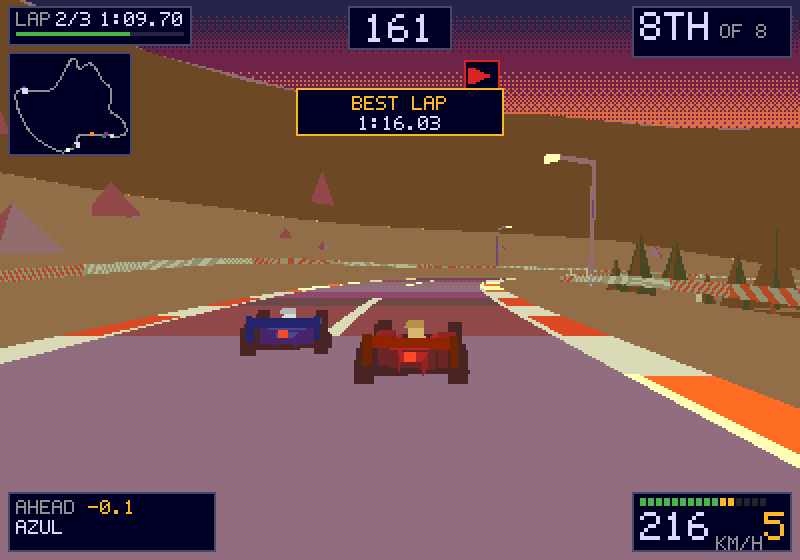
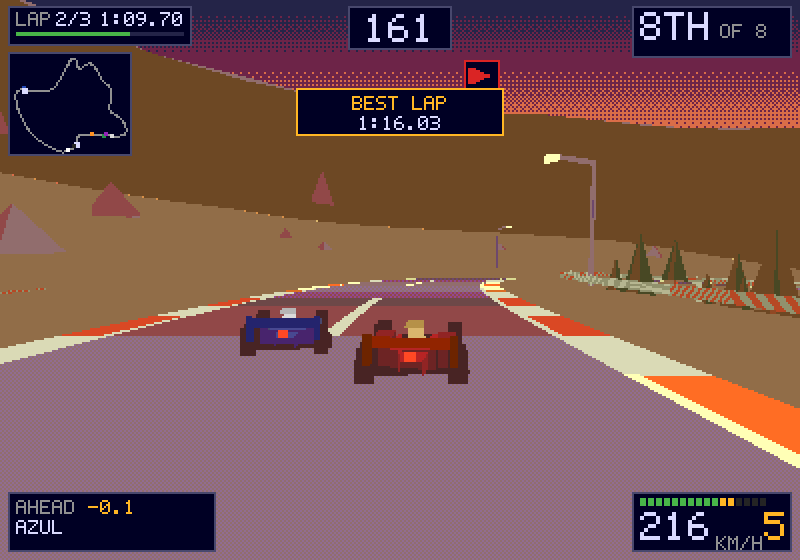
Put the barrier beside the road, not on the ground under it
Where the verge drops away from the track - the beach on the boulevard, the
bank at the start of the grand circuit - the barrier went down with it. It
was drawn at the height of the ground fifteen metres out, and on the sea
front that ground is at water level, so the rail sat nine metres down the
beach with the edge of the track dropping into nothing beside it.

Two halves to the fix, and both of them are what a real circuit does.

The run-off is now level with the track out to the barrier, and the ground
falls away beyond it. On the coast that used to go straight from the kerb to
sea level; now the sand stays at road height as far as the rail and the
waterline moves out to the second ring, so the barrier has something to stand
on and you look down at the sea over it rather than into it.

And the barrier itself is drawn at the height of the track rather than on the
terrain, which for a guard rail is what it means: a barrier beside a road is
at the height of the road. Taken off the ground it can no longer slide down a
slope anywhere. On the bridge there is none at all, because there the railing
is the barrier and two of them was one too many.

While in there: the infield now reaches the middle of the loop. The rings are
fixed distances from the centreline and the outermost is three hundred and
forty metres, which on a circuit twelve hundred metres across leaves a hole in
the middle to see the sky through. Each circuit now gets whatever it needs -
[…]

Changed region(s): [[0.0, 0.4554, 1.0, 0.5768]]

diff --git a/src/render/renderer.js b/src/render/renderer.js
@@ -425,15 +425,21 @@ export class Renderer {
       // The barrier: a rail on posts, all the way round, both sides. It is what
       // turns a road into a circuit, and it is the second best thing in the game
       // for the feeling of speed after the marker posts.
-      if (away < 640) {
+      //
+      // Drawn at the height of the track rather than on the ground it stands
+      // over. A barrier beside a road is at the height of the road by
+      // definition; taken off the terrain it slid down the beach on the sea
+      // front and left the edge of the track dropping into nothing. On the
+      // bridge there is none, because there the railing is the barrier.
+      if (away < 640 && a.bridge === undefined) {
         for (const side of [-1, 1]) {
           const at = side * WALL_AT;
           const ax = a.x + a.nx * at;
           const az = a.z + a.nz * at;
           const bx = b.x + b.nx * at;
           const bz = b.z + b.nz * at;
-          const ay = groundY(a, side, WALL_AT);
-          const by = groundY(b, side, WALL_AT);
+          const ay = roadY(a, at);
+          const by = roadY(b, at);
           rt.quad(ax, ay + 0.5, az, bx, by + 0.5, bz, bx, by + 1.05, bz, ax, ay + 1.05, az,
             tint((i % 8) < 4 ? C.armco : C.kerbA));
           rt.quad(ax, ay + 0.5, az, ax, ay + 1.05, az, bx, by + 1.05, bz, bx, by + 0.5, bz,
@@ -449,10 +455,14 @@ export class Renderer {
         const far = nodeStep(route, i, every);
         for (const side of [-1, 1]) {
           const colour = bandColour(local, a, side, kind, i, this.surf);
+          // The infield band reaches as far as it has to to close the middle of
+          // the loop; the outward one stops at the horizon ring, because outside
+          // the loop there is nothing to close.
+          const out = kind === 'far' && side > 0 ? route.horizon : outer;
           rt.quad(
             a.x + a.nx * side * inner, groundY(a, side, inner), a.z + a.nz * side * inner,
-            a.x + a.nx * side * outer, groundY(a, side, outer), a.z + a.nz * side * outer,
-            far.x + far.nx * side * outer, groundY(far, side, outer), far.z + far.nz * side * outer,
+            a.x + a.nx * side * out, groundY(a, side, out), a.z + a.nz * side * out,
+            far.x + far.nx * side * out, groundY(far, side, out), far.z + far.nz * side * out,
             far.x + far.nx * side * inner, groundY(far, side, inner), far.z + far.nz * side * inner,
             tint(colour),
           );
@@ -463,8 +473,8 @@ export class Renderer {
       // cheapest thing in the game that makes the sea look wet.
       if (a.g.wet > 0.6 && (((i % 2) + 2) % 2) === 0 && away < 620) {
         const far = nodeStep(route, i, 2);
-        const w0 = RINGS[0] + Math.sin(i * 0.7 + this.surf) * 1.6;
-        const w1 = RINGS[0] + Math.sin((i + 2) * 0.7 + this.surf) * 1.6;
+        const w0 = RINGS[1] + Math.sin(i * 0.7 + this.surf) * 2.2;
+        const w1 = RINGS[1] + Math.sin((i + 2) * 0.7 + this.surf) * 2.2;
         rt.quad(
           a.x - a.nx * w0, a.g.l[1] + 0.06, a.z - a.nz * w0,
           a.x - a.nx * (w0 + 2.8), a.g.l[1] + 0.06, a.z - a.nz * (w0 + 2.8),
@@ -957,7 +967,10 @@ function lerp(a, b, t) {
 function bandColour(theme, node, side, kind, i, surf) {
   // Under the bridge it is water on both sides; everywhere else the sea is only
   // ever on the outside of the loop.
-  if (node.g.wet > 0.5 && (side < 0 || node.g.bay > 0.5) && kind !== 'verge') {
+  // Water from the second ring outwards. The band between the barrier and it is
+  // the bank the barrier stands on, and is sand or grass whatever is beyond it.
+  if (node.g.wet > 0.5 && (side < 0 || node.g.bay > 0.5)
+    && kind !== 'verge' && kind !== 'near') {
     const ripple = Math.sin(i * 0.5 + surf * 2) > 0.4;
     const water = ripple ? shade(theme.water, 1.18) : theme.water;
     // Eased in over the last half of the change, so the ground arrives at the

diff --git a/src/game/route.js b/src/game/route.js
@@ -245,7 +245,11 @@ function ground(y, lean, warm, wob, infield) {
   const mL = [y + 0.6 + wob(9) * 1.4, y + 6 * (1 + lean) + wob(5) * 8,
     y + 30 * (1 + lean) + wob(3) * 30];
   const mFarL = y + 58 + wob(2) * 62;
-  const cL = [SEA, SEA, SEA];
+  // The run-off is level with the road out to the barrier and the ground falls
+  // away beyond it. It used to go straight from the kerb to sea level, which
+  // put the barrier - drawn on the ground - nine metres down the beach with the
+  // edge of the track dropping into nothing beside it.
+  const cL = [y - 0.4, SEA, SEA];
 
   // The infield: down off the verge and then flat, wherever the track happens to
   // be at the time.
@@ -467,9 +471,26 @@ export function buildRoute(key) {
     };
   }
 
+  // How far the infield has to reach to close the middle of the loop.
+  //
+  // The rings are fixed distances from the centreline, and the outermost is
+  // three hundred and forty metres - which on a circuit six hundred metres
+  // across is plenty and on one twelve hundred metres across leaves a hole in
+  // the middle of it that you look through at the sky. The infield side is given
+  // whatever it needs: the furthest any node is from the middle of the loop.
+  let midX = 0;
+  let midZ = 0;
+  for (const n of nodes) {
+    midX += n.x / count;
+    midZ += n.z / count;
+  }
+  let horizon = 0;
+  for (const n of nodes) horizon = Math.max(horizon, Math.hypot(n.x - midX, n.z - midZ));
+
   return {
     key,
     nodes,
+    horizon: horizon * 1.08,
     bridgeFrom: from,
     bridgeWater: water,
     props: scatter(nodes, seeded(plan.seed ^ 0x3a71)),
